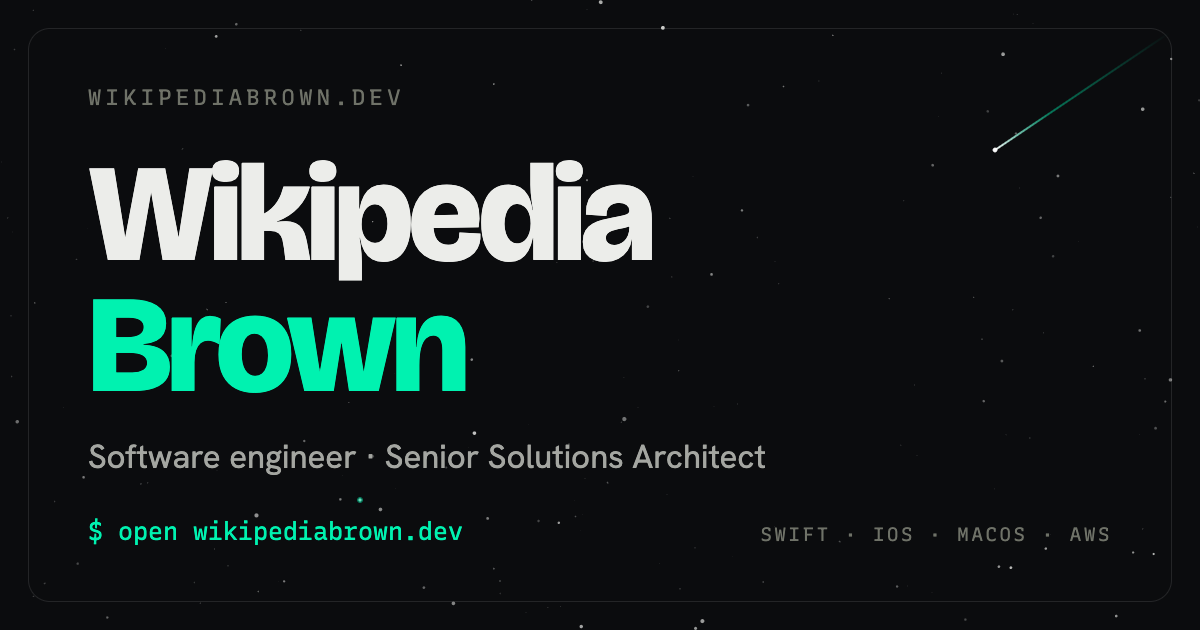
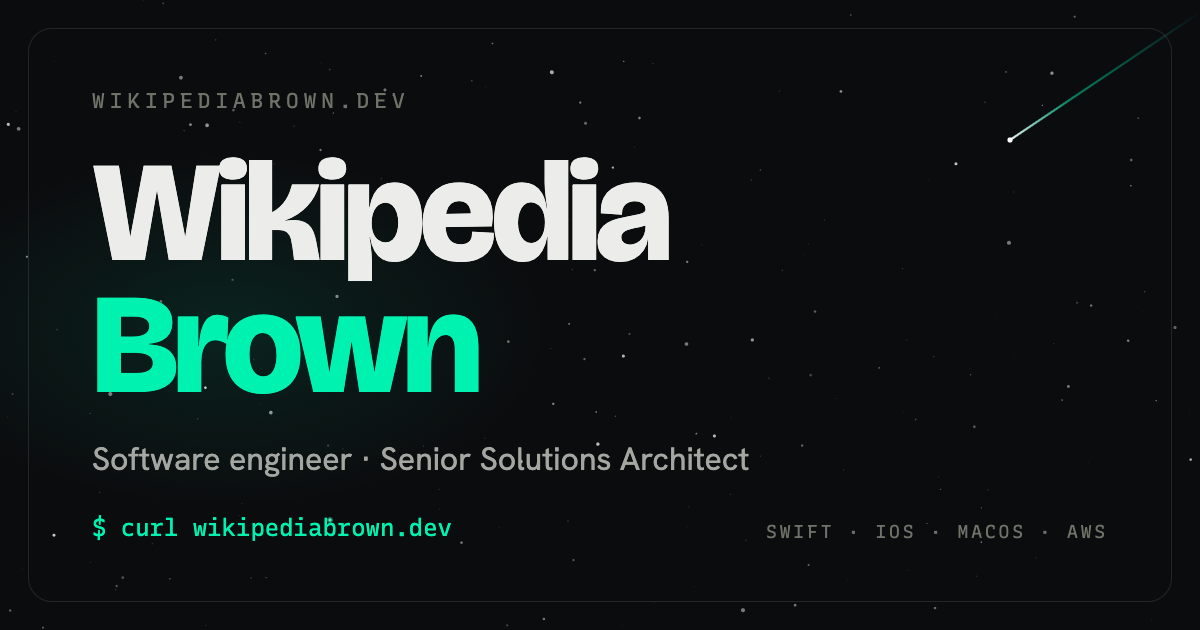
Complete SEO/OG/structured data; refine the share thumbnail
head.html now ships the full set: robots (max-image-preview:large),
author, color-scheme, canonical, complete Open Graph (incl.
secure_url + article:published/modified/author on posts), full Twitter
card (+image:alt), and JSON-LD @graph (Person + WebSite site-wide,
BlogPosting on posts). Add robots.txt (-> sitemap) and an
apple-touch-icon (mint "wb").

Thumbnail polished: starfield + depth glow + mint shooting star,
"Wikipedia / Brown", and the footer is now `$ curl wikipediabrown.dev`.

diff --git a/docs/_includes/head.html b/docs/_includes/head.html
@@ -1,27 +1,81 @@
 <meta charset="utf-8">
 <meta name="viewport" content="width=device-width,initial-scale=1,viewport-fit=cover">
 <meta name="theme-color" content="#0B0C0E">
-<title>{% if page.title %}{{ page.title }} — {{ site.title }}{% else %}{{ site.title }} — Software Engineer{% endif %}</title>
-<meta name="description" content="{{ page.description | default: site.description }}">
+<meta name="color-scheme" content="dark">
+<meta name="robots" content="index, follow, max-image-preview:large, max-snippet:-1">
 
+<title>{% if page.title %}{{ page.title }} — {{ site.title }}{% else %}{{ site.title }} — Software Engineer{% endif %}</title>
+<meta name="description" content="{{ page.description | default: page.summary | default: site.description | strip_newlines }}">
+<meta name="author" content="{{ site.author }}">
+<link rel="canonical" href="{{ page.url | absolute_url }}">
+
+<!-- Open Graph -->
 <meta property="og:type" content="{% if page.layout == 'post' %}article{% else %}website{% endif %}">
 <meta property="og:title" content="{% if page.title %}{{ page.title }}{% else %}{{ site.title }} — Software Engineer{% endif %}">
-<meta property="og:description" content="{{ page.description | default: site.description }}">
+<meta property="og:description" content="{{ page.description | default: page.summary | default: site.description | strip_newlines }}">
 <meta property="og:url" content="{{ page.url | absolute_url }}">
 <meta property="og:site_name" content="{{ site.title }}">
 <meta property="og:locale" content="en_US">
 <meta property="og:image" content="{{ '/og.png' | absolute_url }}">
+<meta property="og:image:secure_url" content="{{ '/og.png' | absolute_url }}">
 <meta property="og:image:type" content="image/png">
 <meta property="og:image:width" content="1200">
 <meta property="og:image:height" content="630">
 <meta property="og:image:alt" content="Wikipedia Brown — Software Engineer, Senior Solutions Architect">
+{%- if page.layout == 'post' %}
+<meta property="article:published_time" content="{{ page.date | date_to_xmlschema }}">
+<meta property="article:modified_time" content="{{ page.date | date_to_xmlschema }}">
+<meta property="article:author" content="{{ site.author }}">
+{%- endif %}
+
+<!-- Twitter -->
 <meta name="twitter:card" content="summary_large_image">
 <meta name="twitter:title" content="{% if page.title %}{{ page.title }}{% else %}{{ site.title }} — Software Engineer{% endif %}">
-<meta name="twitter:description" content="{{ page.description | default: site.description }}">
+<meta name="twitter:description" content="{{ page.description | default: page.summary | default: site.description | strip_newlines }}">
 <meta name="twitter:image" content="{{ '/og.png' | absolute_url }}">
+<meta name="twitter:image:alt" content="Wikipedia Brown — Software Engineer, Senior Solutions Architect">
+
+<!-- Structured data -->
+<script type="application/ld+json">
+{
+  "@context": "https://schema.org",
+  "@graph": [
+    {
+      "@type": "Person",
+      "@id": "{{ site.url }}/#person",
+      "name": {{ site.title | jsonify }},
+      "url": "{{ site.url }}/",
+      "image": "{{ '/og.png' | absolute_url }}",
+      "jobTitle": "Senior Solutions Architect",
+      "description": {{ site.description | strip_newlines | jsonify }},
+      "sameAs": ["https://github.com/WikipediaBrown"]
+    },
+    {
+      "@type": "WebSite",
+      "@id": "{{ site.url }}/#website",
+      "name": {{ site.title | jsonify }},
+      "url": "{{ site.url }}/",
+      "description": {{ site.description | strip_newlines | jsonify }},
+      "publisher": { "@id": "{{ site.url }}/#person" }
+    }{% if page.layout == 'post' %},
+    {
+      "@type": "BlogPosting",
+      "headline": {{ page.title | jsonify }},
+      "description": {{ page.summary | default: page.description | default: site.description | strip_newlines | jsonify }},
+      "datePublished": "{{ page.date | date_to_xmlschema }}",
+      "dateModified": "{{ page.date | date_to_xmlschema }}",
+      "url": "{{ page.url | absolute_url }}",
+      "mainEntityOfPage": "{{ page.url | absolute_url }}",
+      "image": "{{ '/og.png' | absolute_url }}",
+      "author": { "@id": "{{ site.url }}/#person" },
+      "publisher": { "@id": "{{ site.url }}/#person" }
+    }{% endif %}
+  ]
+}
+</script>
 
 <link rel="icon" type="image/svg+xml" href="{{ '/favicon.svg' | relative_url }}">
-<link rel="canonical" href="{{ page.url | absolute_url }}">
+<link rel="apple-touch-icon" href="{{ '/apple-touch-icon.png' | relative_url }}">
 
 <link rel="preconnect" href="https://fonts.googleapis.com">
 <link rel="preconnect" href="https://fonts.gstatic.com" crossorigin>
